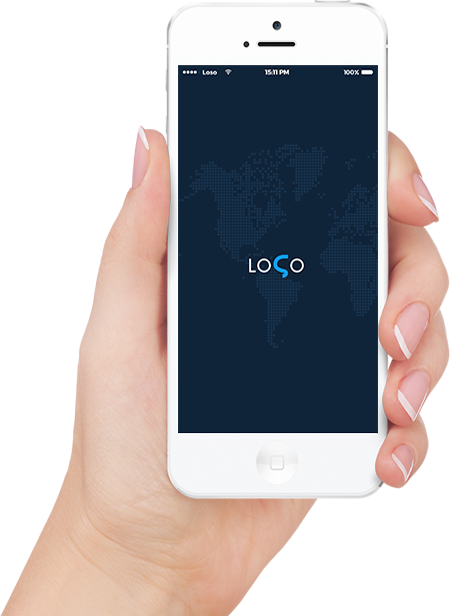
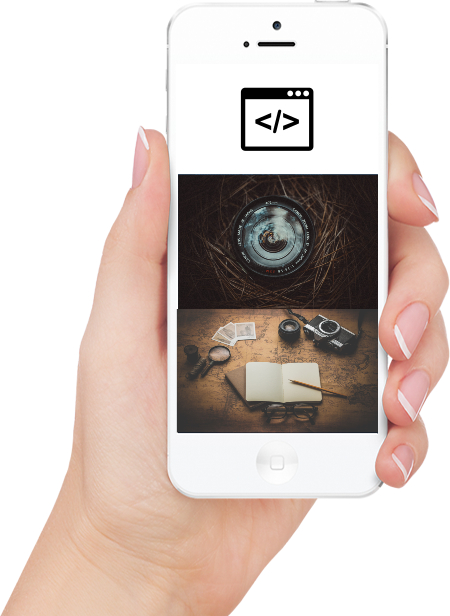
changing about me picture

Changed region(s): [[0.3733, 0.0925, 0.84, 0.7094]]

diff --git a/index.html b/index.html
@@ -17,9 +17,9 @@
         <link href="https://fonts.googleapis.com/css?family=Source+Sans+Pro:300,300i,400,400i,600i,700,900" rel="stylesheet">
         
         <!---fevicon-->
-        <link rel="icon" type="image/png" href="image/fevicon.png"
+        <link rel="icon" type="image/png" href="image/fevicon.png">
         
-        <!-- CSS -->
+        <!--CSS--->
         <link rel="stylesheet" type="text/css" href="css/bootstrap.min.css">
         <link rel="stylesheet" type="text/css" href="css/style.css">
         
@@ -120,7 +120,7 @@
                     <div class="row">
                         <div class="col-md-6">
                             <div class="picture">
-                                <img src="image/about-iphone.png" alt="mypic">
+                                <img src="image/rect4556.png" alt="mypic">
                                 
                             
                             </div>
@@ -160,12 +160,9 @@
                                   <div class="more-info-items">
                                 
                                 <!--fontAwsome icon for info-->
-                                    <div><i class="fa fa-paint-brush" aria-hidden="true"></i></div>
-                                    <h3> I love Designing<h3>
+                                    <div><i class="fa fa-paint-brush" ></i></div>
+                                      <h3> I love Designing</h3>
                                     <p>  In mattis diam ut felis rutrum, a ultricies nulla aliquet</p>
-                                    
-                                
-                                
                                 </div>
                                         
                                 

diff --git a/css/style.css b/css/style.css
@@ -183,7 +183,7 @@ p{
     -moz-transition: all 1s;
 }
 .more-info-items h3 {
- color: #343434;
+    color: #343434;
     text-transform: uppercase;
     font-size: 20px;
     font-weight: 800;
